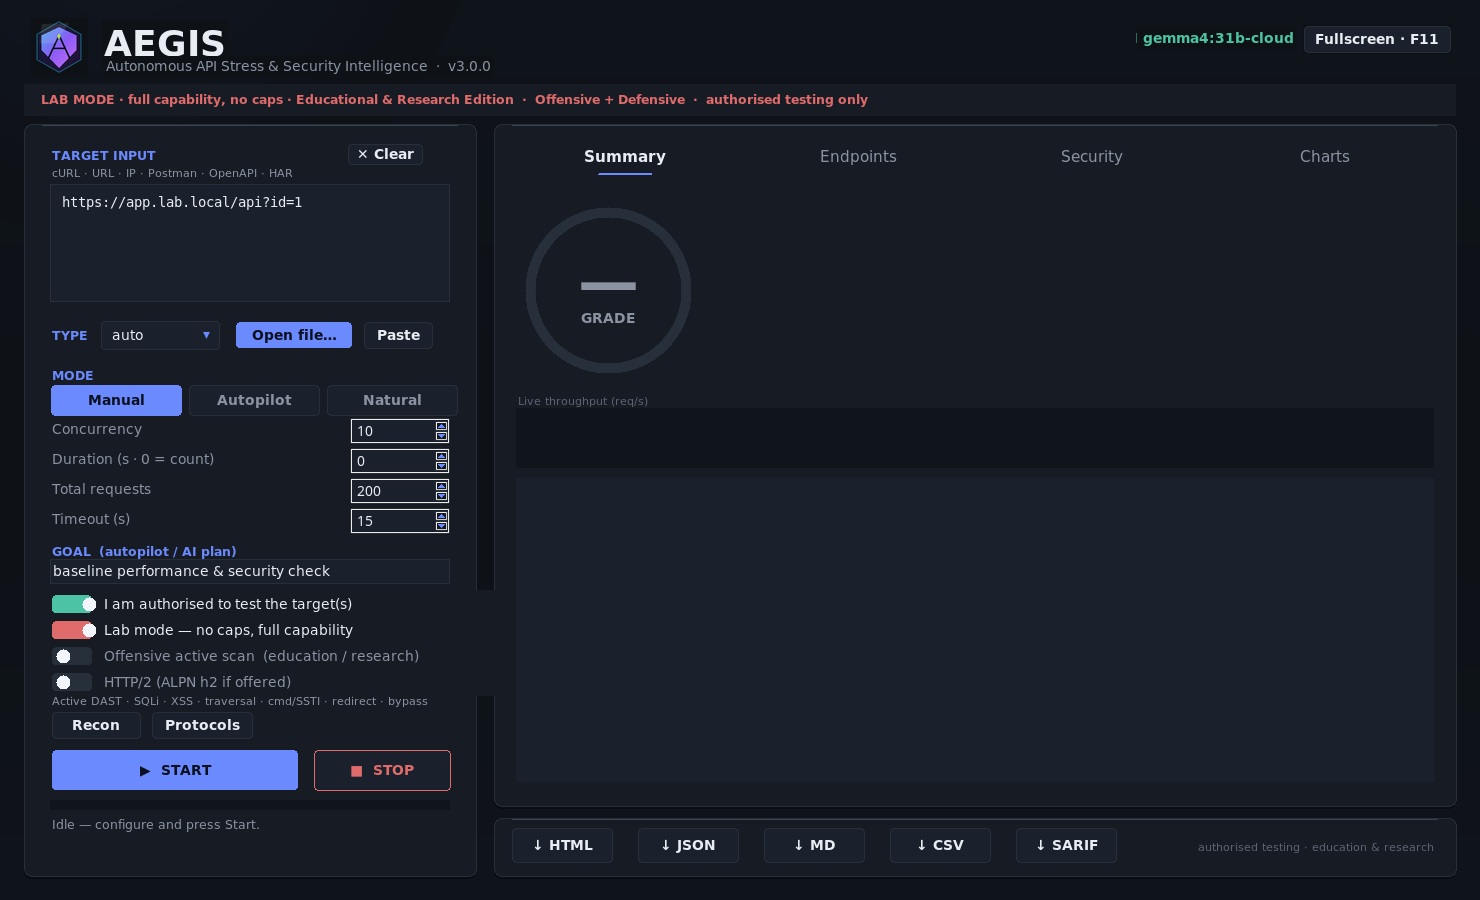
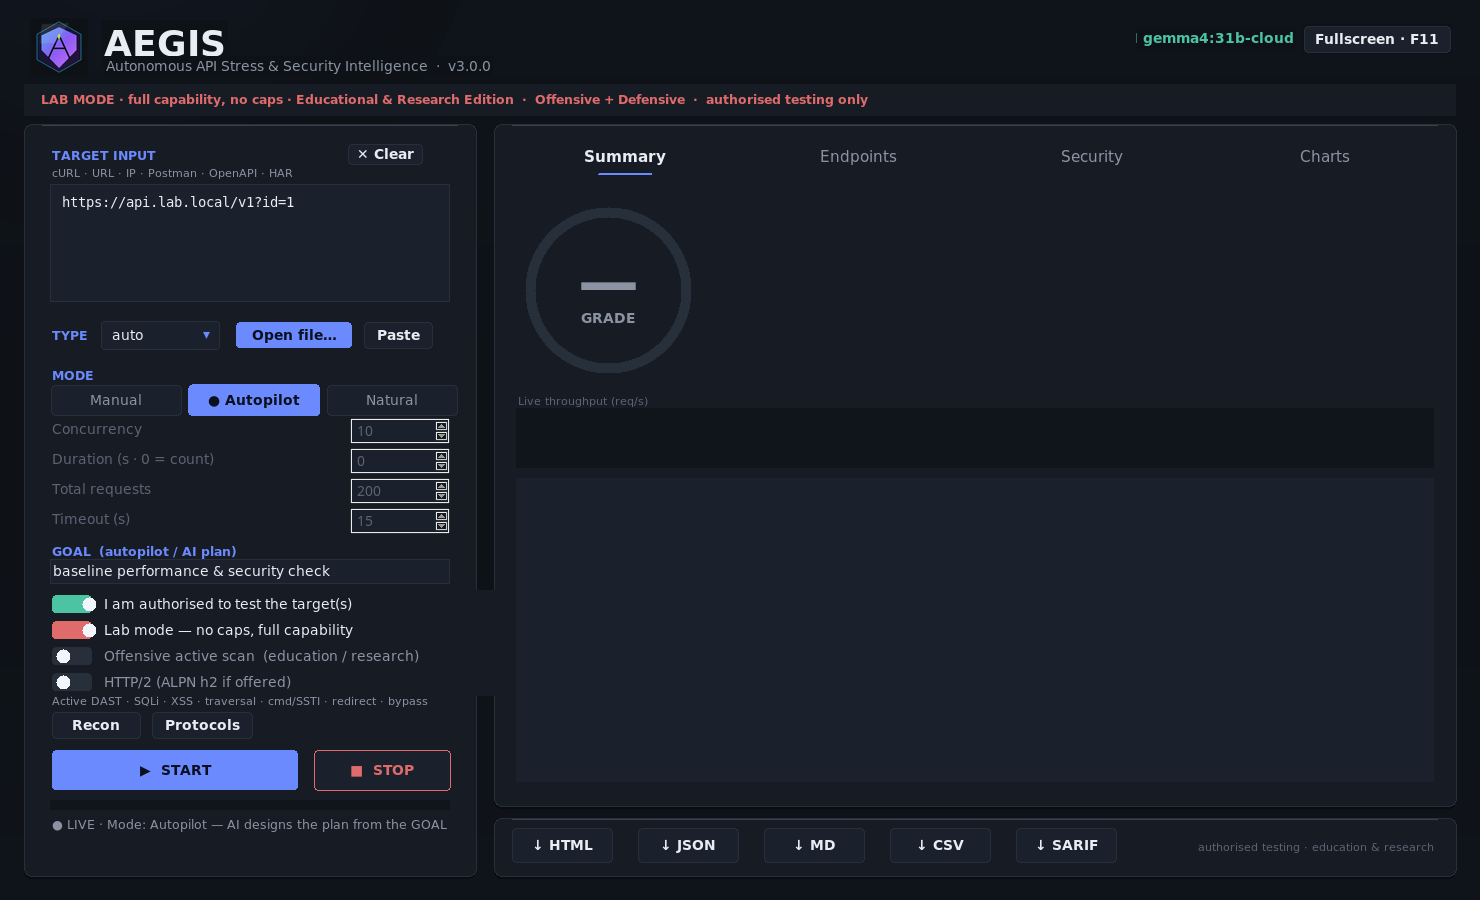
fix: --lab on aegis protocols/recon; live GUI mode selection feedback
- CLI: protocols & recon now accept --lab / --authorized / --no-ai
  (via _load_cfg) — fixes "No such option: --lab".
- GUI: selecting Manual/Autopilot/Natural now reflects live in real time:
  selected pill shows ● + bold + accent + thicker border; the inputs the
  mode uses are enabled and the rest are dimmed/disabled; a "● LIVE ·
  Mode: …" status line updates on every click and at startup.
- 66 tests green; verified under Xvfb (modes switch live, --lab parses).

diff --git a/aegis/gui.py b/aegis/gui.py
@@ -608,6 +608,7 @@ class AegisGUI:
     # ---- responsive layout -------------------------------------------- #
     def _first_layout(self):
         self._relayout()
+        self._apply_mode_state()   # reflect the initial mode live
 
     def _on_resize(self, e):
         if e.widget is not self.root:
@@ -777,14 +778,45 @@ class AegisGUI:
             sel = self.mode.get() == val
             _round(b, 1, 1, 131, 31, 9,
                     fill=C["acc"] if sel else C["panel2"],
-                    outline=C["acc"] if sel else C["line"], width=1)
-            b.create_text(66, 16, text=names[val],
+                    outline=C["acc"] if sel else C["line"],
+                    width=2 if sel else 1)
+            label = ("● " + names[val]) if sel else names[val]
+            b.create_text(66, 16, text=label,
                           fill="#0b1020" if sel else C["mut"],
-                          font=("DejaVu Sans", 10, "bold"))
+                          font=("DejaVu Sans", 10,
+                                "bold" if sel else "normal"))
+
+    _MODE_DESC = {
+        "manual": "Manual — you set concurrency / duration / requests",
+        "autopilot": "Autopilot — AI designs the plan from the GOAL",
+        "nlp": "Natural — describe the test in plain English (input box)",
+    }
+
+    def _apply_mode_state(self):
+        """Live-reflect the selected mode: enable the inputs it uses,
+        dim the ones it doesn't, and show a live status line."""
+        m = self.mode.get()
+        manual, auto = m == "manual", m == "autopilot"
+        for _k, (lb, sp) in self._spins.items():
+            try:
+                sp.configure(state="normal" if manual else "disabled")
+            except tk.TclError:
+                pass
+            lb.configure(fg=C["ink"] if manual else C["faint"])
+        try:
+            self.goal.configure(state="normal" if auto else "disabled",
+                                disabledbackground=C["inset"])
+        except tk.TclError:
+            self.goal.configure(state="normal" if auto else "disabled")
+        self.L["s_goal"].configure(fg=C["acc"] if auto else C["faint"])
+        if not (self.worker and self.worker.is_alive()):
+            self.status.configure(
+                text=f"● LIVE · Mode: {self._MODE_DESC[m]}")
 
     def _set_mode(self, v):
         self.mode.set(v)
         self._render_modes()
+        self._apply_mode_state()
 
     # ---- editor / clipboard ------------------------------------------- #
     def _menu(self, w):

diff --git a/aegis/cli.py b/aegis/cli.py
@@ -444,6 +444,9 @@ def gui(config: str = typer.Option(None, "--config", "-c")) -> None:
 @app.command()
 def recon(
     target: str = typer.Argument(..., help="Target URL to reconnoitre."),
+    authorized: bool = typer.Option(False, "--authorized"),
+    lab: bool = typer.Option(False, "--lab"),
+    no_ai: bool = typer.Option(False, "--no-ai"),
     config: str = typer.Option(None, "--config", "-c"),
 ) -> None:
     """Full reconnaissance: fingerprint, discover, extract schema.
@@ -452,7 +455,7 @@ def recon(
     OpenAPI/GraphQL schema extraction, and hidden parameter fuzzing.
     """
     _banner()
-    cfg = AegisConfig.load(config)
+    cfg = _load_cfg(config, no_ai, authorized, lab)
     orch = Orchestrator(cfg)
 
     con.print(f"[cyan]🔍 Reconnaissance against:[/] {target}\n")
@@ -494,11 +497,14 @@ def recon(
 def protocols(
     target: str = typer.Argument(..., help="Target URL or host:port."),
     timeout: float = typer.Option(8.0, "--timeout"),
+    authorized: bool = typer.Option(False, "--authorized"),
+    lab: bool = typer.Option(False, "--lab"),
+    no_ai: bool = typer.Option(False, "--no-ai"),
     config: str = typer.Option(None, "--config", "-c"),
 ) -> None:
     """Test HTTP/2, WebSocket and gRPC support (Phase 4.2, observation only)."""
     _banner()
-    orch = Orchestrator(AegisConfig.load(config))
+    orch = Orchestrator(_load_cfg(config, no_ai, authorized, lab))
     con.print(f"[cyan]🔌 Protocol probe:[/] {target}\n")
     r = orch.test_protocols(target, timeout=timeout)
     h = r["http2"]